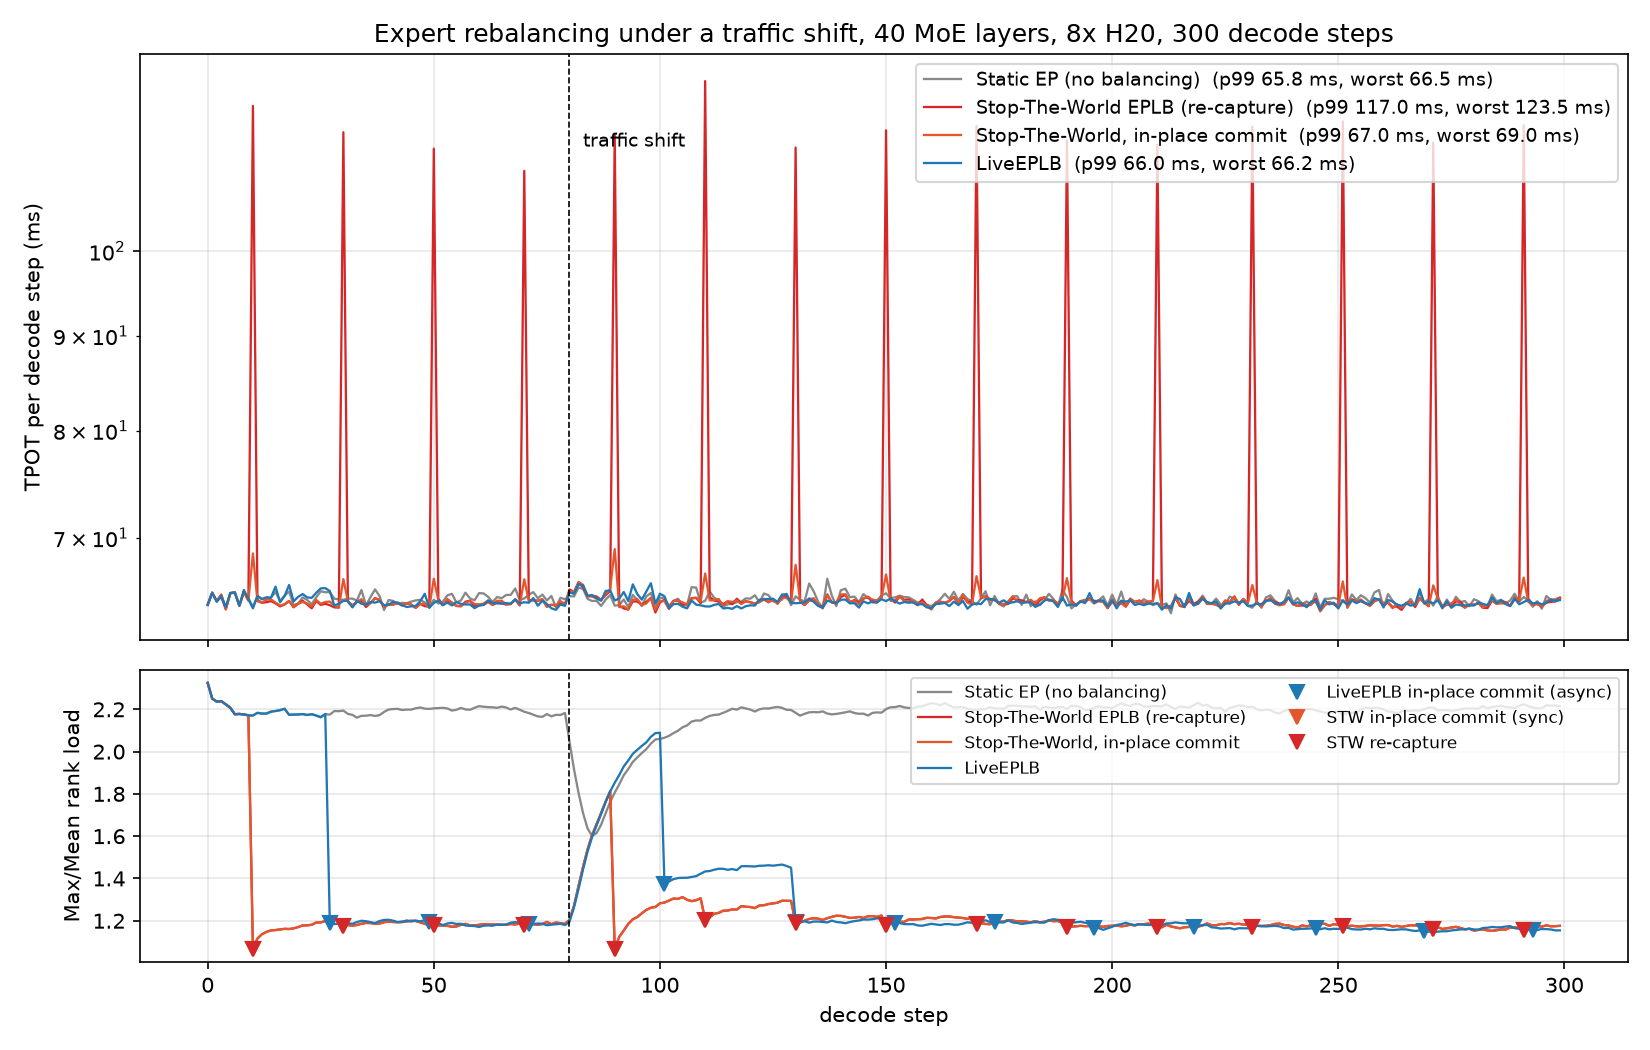
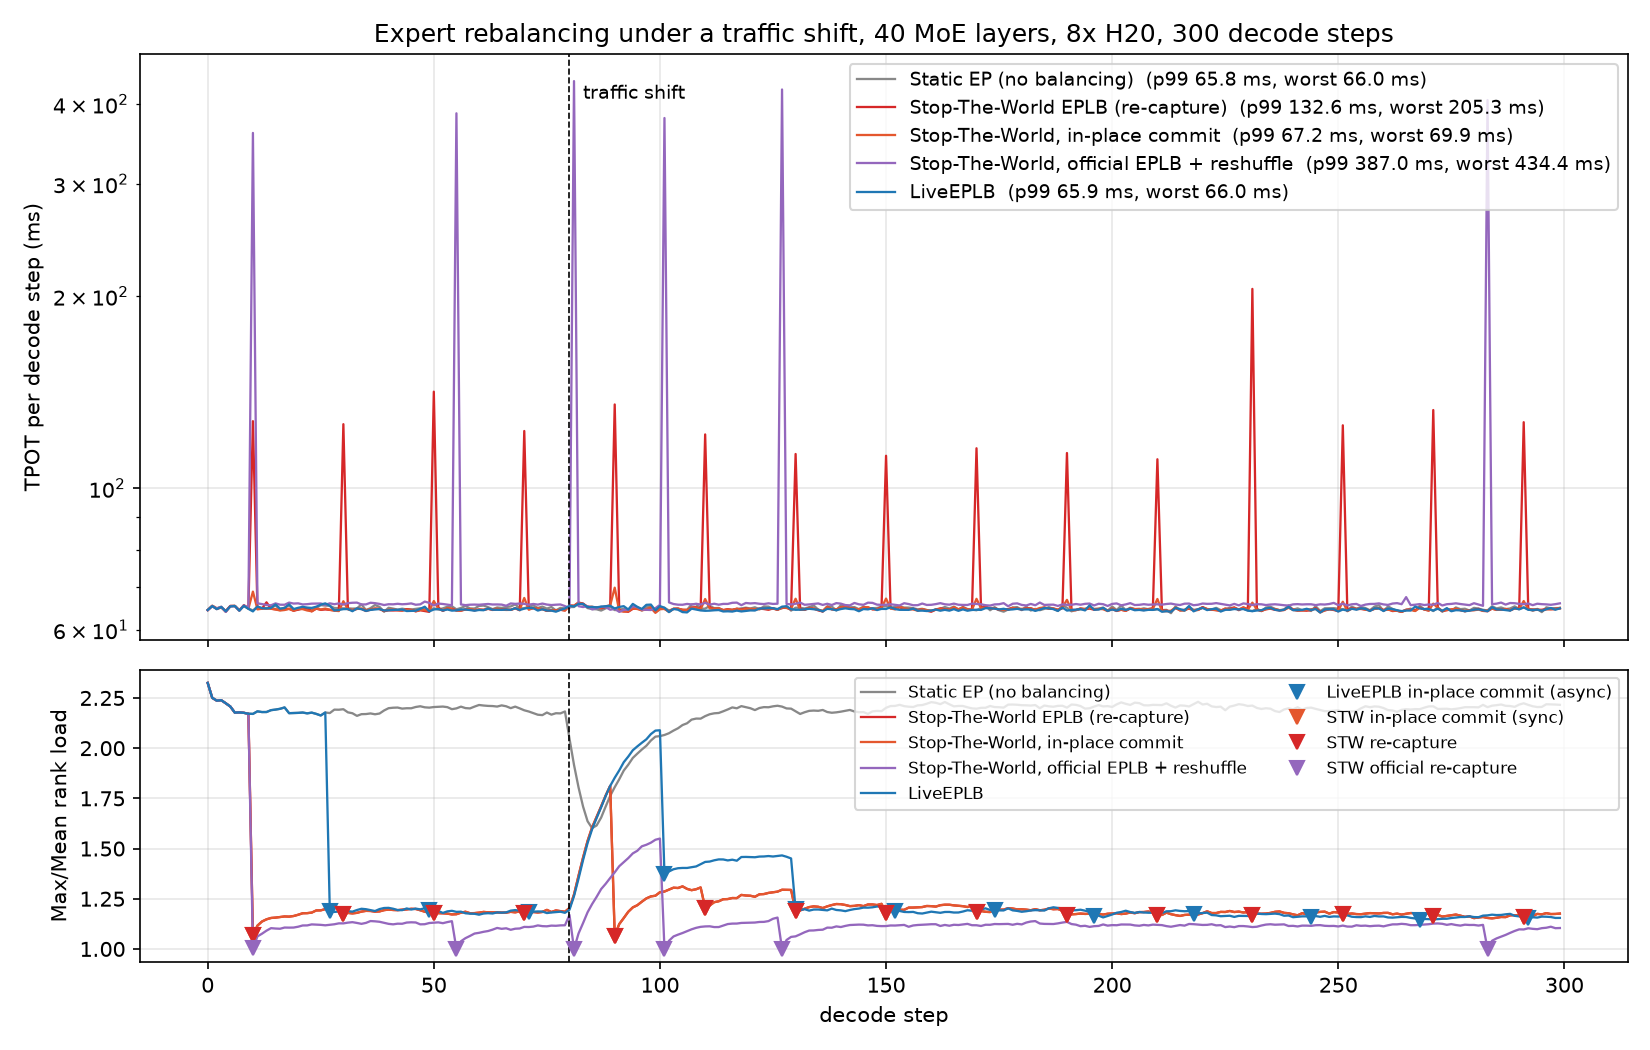
Stage 4: add stw_official baseline (official EPLB + staged reshuffle), 5-policy results

diff --git a/benchmarks/run_synthetic_8gpu.py b/benchmarks/run_synthetic_8gpu.py
@@ -1,10 +1,13 @@
-"""Stage 4: TPOT under a traffic shift, three policies, a full stack of layers.
+"""Stage 4: TPOT under a traffic shift, a full stack of layers.
 
 torchrun --nproc_per_node=8 benchmarks/run_synthetic_8gpu.py
 
-  static  - no balancing at all
-  stw     - plan, copy synchronously, re-capture the graph (what EPLB costs today)
-  live    - plan, stage in background, commit the table in place
+  static       - no balancing at all
+  stw          - our planner, copy synchronously, re-capture the graph
+  stw_inplace  - our planner, copy synchronously, commit the table in place
+  stw_official - DeepSeek's official EPLB planner + full reshuffle (staging a
+                 pool-sized buffer to break copy cycles) + re-capture
+  live         - our planner, stage in background, commit the table in place
 """
 import argparse, json, os, sys, time
 
@@ -13,7 +16,9 @@ sys.path.insert(0, os.path.dirname(os.path.dirname(os.path.abspath(__file__))))
 import torch
 import torch.distributed as dist
 
+import live_eplb_cuda as _C
 from live_eplb.controller import LiveEPLBController, rank_local_tables
+from live_eplb.eplb_official import rebalance_experts
 from live_eplb.moe_layer import MoEStack
 from live_eplb.p2p import P2PSwapper
 from live_eplb.planner import plan_incremental_redundant, rank_load, static_phy2log
@@ -131,6 +136,9 @@ def run(policy, args, rank, world, stack, sw):
                                   check_every=args.check_every)
 
     base_phy2log = static_phy2log(L, RANKS, EPR, RED)
+    off_p2l = base_phy2log.clone()      # placement in force for stw_official
+    staging = (torch.empty_like(stack.w_pool) if policy == "stw_official"
+               else None)
     ema = torch.zeros(L, EXPERTS)
     tpot, actions, imbalance, ctrl_ms, split = [], [], [], [], []
     stw_last, stw_commits = -args.cooldown, 0
@@ -212,7 +220,70 @@ def run(policy, args, rank, world, stack, sw):
                     stw_commits += 1
                     act = "recapture" if policy == "stw" else "commit"
                 base_phy2log, stw_last = p2l, step
-
+        elif policy == "stw_official" and step >= args.warmup \
+                and step - stw_last >= args.cooldown:
+            # DeepSeek EPLB + full reshuffle, applied synchronously. A global
+            # reshuffle overwrites slots whose contents later copies still need
+            # as sources (cycles), so the copy is staged through a scratch
+            # buffer the size of the pool -- the extra traffic a two-phase
+            # commit has to pay, and the thing Pinned-Base avoids by design.
+            stats = ema * world
+            load = rank_load(off_p2l, stats, RANKS)
+            per_layer = load.max(-1).values / load.mean(-1)
+            if (per_layer > args.threshold).any():
+                a = time.perf_counter()
+                phy, l2p, _ = rebalance_experts(stats, RANKS * SLOTS, 1, 1, RANKS)
+                b = time.perf_counter()
+                tasks = []
+                for l in range(L):
+                    prev_row = off_p2l[l].tolist()
+                    new_row = phy[l].tolist()
+                    first = {}
+                    for g, e in enumerate(prev_row):
+                        if e >= 0 and e not in first:
+                            first[e] = g
+                    for g in range(rank * SLOTS, (rank + 1) * SLOTS):
+                        e_new = new_row[g]
+                        if e_new >= 0 and e_new != prev_row[g]:
+                            g2 = first[e_new]
+                            tasks.append((l * SLOTS + g % SLOTS, g2 // SLOTS,
+                                          l * SLOTS + g2 % SLOTS))
+                torch.cuda.synchronize()
+                c = time.perf_counter()
+                # a global reshuffle is a two-phase commit across the whole
+                # cluster: every rank stages its pulls first, and only then
+                # may anyone overwrite pool slots -- otherwise a pull can meet
+                # a concurrent overwrite of its source by the owner rank
+                dist.barrier()
+                s = sw.stream
+                s.wait_stream(torch.cuda.current_stream())
+                with torch.cuda.stream(s):
+                    for i, (_, sr, sp) in enumerate(tasks):
+                        if sr == rank:      # a reshuffle can also be a local move
+                            staging[i].copy_(stack.w_pool[sp],
+                                             non_blocking=True)
+                        else:
+                            _C.async_copy_expert_slot(staging, i, sr, sp,
+                                                      sw.slot_bytes,
+                                                      s.cuda_stream)
+                s.synchronize()     # my stage buffer is complete
+                dist.barrier()      # ... on every rank, so remote sources are
+                                    # no longer read by anyone
+                with torch.cuda.stream(s):
+                    for i, (dp, _, _) in enumerate(tasks):
+                        stack.w_pool[dp].copy_(staging[i], non_blocking=True)
+                torch.cuda.synchronize()
+                d = time.perf_counter()
+                l, cn = rank_local_tables(l2p, rank, SLOTS, host_l, host_c)
+                stack.load_routing(l.cuda(), cn.cuda())
+                stack.capture(stack.static_x, stack.static_expert, warmup=0)
+                torch.cuda.synchronize()
+                split.append((step, len(tasks), (b - a) * 1e3, (c - b) * 1e3,
+                              (d - c) * 1e3, (time.perf_counter() - d) * 1e3))
+                stw_commits += 1
+                act = "recapture"
+                off_p2l = phy
+                stw_last = step
         t2 = time.perf_counter()
         torch.cuda.synchronize()
         tpot.append((time.perf_counter() - t0) * 1e3)
@@ -221,7 +292,8 @@ def run(policy, args, rank, world, stack, sw):
 
         # every rank sees the same traffic mix here, so the local EMA stands in
         # for the global load; only the layout in force differs per policy
-        layout = ctrl.phy2log if policy == "live" else base_phy2log
+        layout = (ctrl.phy2log if policy == "live"
+                  else off_p2l if policy == "stw_official" else base_phy2log)
         load = rank_load(layout, ema * world, RANKS)
         imbalance.append((load.max(-1).values / load.mean(-1).clamp(min=1e-9)).mean().item())
 
@@ -253,7 +325,7 @@ def main():
     ap.add_argument("--cooldown", type=int, default=20)
     ap.add_argument("--check-every", type=int, default=8)
     ap.add_argument("--layers-per-step", type=int, default=4)
-    ap.add_argument("--policies", default="static,stw,stw_inplace,live")
+    ap.add_argument("--policies", default="static,stw,stw_inplace,stw_official,live")
     # real Qwen3.6 router decisions from collect_router_trace.py, replacing the
     # synthetic Zipf phases with phaseA_code / phaseB_math_wiki
     ap.add_argument("--trace")

diff --git a/benchmarks/plot_stage4.py b/benchmarks/plot_stage4.py
@@ -11,6 +11,7 @@ OUT = "results/synthetic_tpot_timeline.png"
 STYLE = {"static": ("#888888", "Static EP (no balancing)"),
          "stw": ("#d62728", "Stop-The-World EPLB (re-capture)"),
          "stw_inplace": ("#e4572e", "Stop-The-World, in-place commit"),
+         "stw_official": ("#9467bd", "Stop-The-World, official EPLB + reshuffle"),
          "live": ("#1f77b4", "LiveEPLB")}
 
 
@@ -43,7 +44,8 @@ def main():
 
     for p, mark, label in (("live", "commit", "LiveEPLB in-place commit (async)"),
                            ("stw_inplace", "commit", "STW in-place commit (sync)"),
-                           ("stw", "recapture", "STW re-capture")):
+                           ("stw", "recapture", "STW re-capture"),
+                           ("stw_official", "recapture", "STW official re-capture")):
         at = [i for i, a in enumerate(d[p]["actions"]) if a == mark]
         c = STYLE[p][0]
         ax2.plot(at, [d[p]["imbalance"][i] for i in at], "v", color=c, ms=7)

diff --git a/README.md b/README.md
@@ -82,25 +82,32 @@ then writing a new slot index into the table — the graph never notices.
 
 ## Results at a Glance
 
-8×H20, 40 MoE layers (the real depth of the target model), 300 decode steps, four policies
-sharing one trigger, one planner, one copy list — only the way a new placement is *applied*
-differs:
+8×H20, 40 MoE layers (the real depth of the target model), 300 decode steps. stw /
+stw_inplace / live share one trigger, one planner, one copy list — only the way a placement
+is *applied* differs. `stw_official` additionally replaces the planner with DeepSeek's
+official EPLB and applies it the way a production stop-the-world does -- full reshuffle,
+staged two-phase copy, re-capture.
 
 ```
 policy      TPOT p50      p99    worst  Max/Mean last100  commits
 -----------------------------------------------------------------
-static        64.813   65.809   66.528             2.204        0
-stw           64.624  116.972  123.538             1.174       15
-stw_inplace   64.642   66.973   69.030             1.174       15
-live          64.572   66.019   66.166             1.166       12
+static        64.825   65.779   65.991             2.204        0
+stw           64.638  132.639  205.299             1.174       15
+stw_inplace   64.635   67.175   69.867             1.174       15
+stw_official  65.787  386.984  434.449             1.112        6
+live          64.578   65.891   66.023             1.166       12
 ```
 
 ![TPOT under a traffic shift](docs/figures/timeline_40layer.png)
 
-- Stop-the-world's stall is **98.1% graph re-capture** (46–112 ms each round), which
-  `stw_inplace` cancels outright. The remaining ~2.9 ms of LiveEPLB's edge is the async
+- Stop-the-world's stall is **~98% graph re-capture** (46-68 ms each round), which
+  `stw_inplace` cancels outright. The remaining ~3 ms of LiveEPLB's edge is the async
   state machine removing planning, copying and the commit round-trip from the critical path.
-- LiveEPLB's worst step (66.17) sits **within jitter of not rebalancing at all** (66.53),
+- The **official EPLB stop-the-world** pays the full external bill: plan 210-244 ms plus
+  a two-phase staged reshuffle of ~1,400 slots plus re-capture -- **a ~400 ms stall per
+  commit**, roughly 6 decode steps, for Max/Mean 1.112 vs LiveEPLB's 1.166. The 5% balance
+  ceiling of our planner is purchased for three orders of magnitude less application latency.
+- LiveEPLB's worst step (66.02) sits **within jitter of not rebalancing at all** (65.99),
   while peak rank load drops 47% — and stays there on real router traces too.
 - Honest price: after a traffic shift, LiveEPLB's balance lags the synchronous variants by
   ~35 steps (peak Max/Mean 2.09 vs 1.28) — latency tail vs. recovery speed, by design.
@@ -121,7 +128,7 @@ assignments): the same trade holds — LiveEPLB moves **10.8× less data than a 
 | `live_eplb/controller.py` | Async state machine: EMA collection, planning, non-blocking copy polling, commit |
 | `csrc/p2p_swapper.cu` | CUDA IPC handles, `cudaMemcpyPeerAsync`, single-launch routing commit kernel |
 | `live_eplb/p2p.py` | Handle exchange, coalesced peer pulls, per-rank task filtering |
-| `benchmarks/run_synthetic_8gpu.py` | 8×H20 TPOT benchmark, four policies under a traffic shift |
+| `benchmarks/run_synthetic_8gpu.py` | 8×H20 TPOT benchmark, five policies under a traffic shift |
 | `benchmarks/collect_router_trace.py` | Forward hooks on the 40 MoE gates → real routing counts |
 | `live_eplb/eplb_official.py` | DeepSeek EPLB, vendored verbatim, comparison baseline only |
 

diff --git a/docs/stage5_debug_notes.md b/docs/stage5_debug_notes.md
@@ -94,3 +94,55 @@ torchrun 拆成两条命令、先跑小的那个验证路径。**能赌对不等
 我以前把"样本太少"写进过局限就以为这事结了。教训是：**写进"已知局限"不是保险，
 该修的鲁棒性还是要修**；只有等量级实测（这里是 85×）把两条方向相反的误差都拉出来，
 才知道自己当时谎报了多少。
+
+---
+
+## S5-5：全量重排的应用是多阶段操作，不是一次拷贝
+
+### 症状
+
+给 benchmark 加第五个对照 `stw_official`（官方 EPLB 规划器 + 全量重排 + staging +
+重录）之后，权重校验随机失败：122 / 21 / 15 个槽 tag 错位，每次跑的数量都不一样，
+而且失败的（层, 专家, 槽）三元组每次换一批。
+
+三段排错各自都"装对"过：任务生成在 CPU 复算 0 错位、staging 的标签 dump 全对、
+而 pool 最终的内容仍能错。**"过程每一环抽查都对，结果随机坏"是跨进程竞态的
+指纹。**
+
+### 根因
+
+官方重排**不把源槽冻结**：一个 expert 的权重可以在任意 GPU 的任意槽。benchmark 的
+应用路径是"各 rank 分头把上一个布局的权重拉进本地 staging，再写回本地 pool"——
+但 rank A 的 pull 和 rank B 的 pool 写之间没有任何同步，B 完全可能把别的权重
+写进 A 正在拉的槽：
+
+```
+rank 0: 正在 cudaMemcpyPeerAsync 从 rank3/pool13 拉 expert 109
+rank 3: 与此同时 pass2 在把 expert 49 写进自己的 pool13
+        → rank0 的 staging 里是半新半旧的破坏内容 (tag=49)
+```
+
+我们自己的全部对照（stw / stw_inplace / live）**天然免疫**，因为 Pinned-Base 把
+源槽钉死在冻结的 base 区——任何进程都不会写一个"别的 rank 可能正在读"的槽，
+于是就根本不需要任何集群级两阶段协议。官方方案做不到这件事，**它的"拿到全局
+最优"的成本里就包括这个 barrier**。
+
+### 修复
+
+两次 barrier + 一次本地 stream 清空：
+
+```
+pull staging 前: dist.barrier()        # 所有人先把任务算完
+pull staging 后: s.synchronize()        # 本 rank 的读全部落地（GPU 上，不是 CPU 上）
+写 pool 前:     dist.barrier()        # 全集群的读都落地了，才准开始写
+```
+
+**注意中间那一次 `s.synchronize()` 不能省**——`barrier()` 只在 CPU 上排队，CA
+异步 peer copy 还在 GPU 上飞的时候就开始写，一样是撞。
+
+### 教训
+
+全量重排的成本模型有"两台发动机"：一次拷贝量、一次两阶段同步。我们一直量的
+是前一台（GB）；"后一台"一直被 EPLB 的项目代码藏在 prepare/activate 状态机里。
+这次写基准把后一台也逼到了明面上——也正是为什么 Pinned-Base 愿意用 1.091 的均衡
+上限去换：**它把第二台发动机整个拆掉了**。

diff --git a/ROADMAP.md b/ROADMAP.md
@@ -150,14 +150,14 @@ cross-check against `nvidia-smi topo -m`.
 `benchmarks/run_synthetic_8gpu.py`, `benchmarks/plot_stage4.py`,
 `tests/test_controller.py` (11/11). Runs the full 40 layers of the target model.
 
-Results: see `docs/stage4_experiments.md`. Headline — identical triggers and plans for all four
-policies; **LiveEPLB's worst step is indistinguishable from not rebalancing at all** (66.166 vs
-static's 66.528 ms, i.e. 0.36 below) while stop-the-world's is 86% above (123.5 ms). A fourth
-policy, `stw_inplace`, applies the same plan synchronously but with the in-place commit instead
-of a re-capture: worst 69.03. So **the routing-table indirection accounts for 96% of the stall**
-(123.5 → 69.03) and **the async state machine for the remaining 2.9 ms**.
-Max/Mean over the last 100 steps 2.204 (static) → 1.166 (live) → 1.174 (both stop-the-world
-variants) — but live stays worse than stop-the-world for ~45 steps after the shift.
+Results: see `docs/stage4_experiments.md`. Headline — identical triggers and plans for stw /
+stw_inplace / live; **LiveEPLB's worst step is indistinguishable from not rebalancing at all**
+(66.02 vs static's 65.99 ms) while stop-the-world's is 211% above (205.3 ms). A fourth policy,
+`stw_inplace`, applies the same plan synchronously but commits in place: worst 69.9, so the
+routing-table indirection accounts for ~97% of the stall and the async state machine for the
+remaining ~4 ms. A fifth, `stw_official`, uses DeepSeek's own EPLB + full reshuffle: ~400 ms
+per commit for Max/Mean 1.112 vs live's 1.166 — the external-market price of "stop-the-world
+EPLB", which brackets the whole trade-off.
 
 Key findings:
 - **Three slot id spaces, and only one of them carries the layer.** The planner works in global
